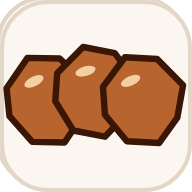
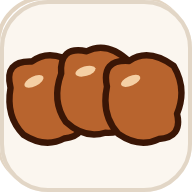
Round 4: merge streak-msg margin rule

Changed region(s): [[0.0, 0.2188, 0.9688, 0.7812]]

diff --git a/site.css b/site.css
@@ -82,7 +82,7 @@ h1:focus:not(:focus-visible),[tabindex="-1"]:focus:not(:focus-visible){outline:n
 .what-list li{display:flex;gap:12px;align-items:center;color:var(--ink2);font-size:.9375rem}
 .what-list li::before{content:'';width:8px;height:8px;border-radius:50%;background:var(--accent);flex:none}
 .streak-preview{padding:var(--s2);display:flex;flex-direction:column;gap:var(--s1)}
-.streak-msg{font-size:1rem;font-weight:600;color:var(--ink)}
+.streak-msg{font-size:1rem;font-weight:600;color:var(--ink);margin:0}
 .streak-top{display:flex;align-items:center;gap:6px}
 .week{display:flex;justify-content:space-between;gap:var(--s1)}
 .day,.dot{width:40px;height:40px;border-radius:999px;border:1px solid var(--edge);background:var(--surface);color:var(--ink2);font-weight:600;cursor:pointer;display:grid;place-items:center;padding:0;transition:background .18s,border-color .18s,color .18s}
@@ -207,7 +207,6 @@ h1:focus:not(:focus-visible),[tabindex="-1"]:focus:not(:focus-visible){outline:n
 /* Streak header: one row with a fixed-size icon. */
 .streak-top{display:flex;align-items:center;gap:var(--s1);height:auto;min-height:0}
 .streak-top svg,.streak-ico{width:20px;height:20px;flex:none}
-.streak-msg{margin:0}
 .challenge-card .streak-top svg,.challenge-card .streak-ico{width:40px;height:40px}
 
 /* Type, cards and buttons */

diff --git a/qa/style-snap.js b/qa/style-snap.js
@@ -1,0 +1,16 @@
+const { chromium } = require('playwright');
+(async () => {
+  const b = await chromium.launch(process.env.CHROME ? { executablePath: process.env.CHROME } : {});
+  const out = {};
+  for (const w of [390, 1440]) {
+    const p = await b.newPage({ viewport: { width: w, height: 900 } });
+    await p.goto(process.env.BASE); await p.waitForSelector('.streak-msg');
+    out[w] = await p.evaluate(() => {
+      const cs = getComputedStyle(document.querySelector('.streak-msg'));
+      return ['font-size','font-weight','line-height','color','margin-top','margin-bottom','text-transform','letter-spacing'].map(k => k + '=' + cs.getPropertyValue(k)).join(';');
+    });
+    await p.close();
+  }
+  console.log(JSON.stringify(out));
+  await b.close();
+})().catch(e => { console.error('FAIL', e.message); process.exit(1); });
